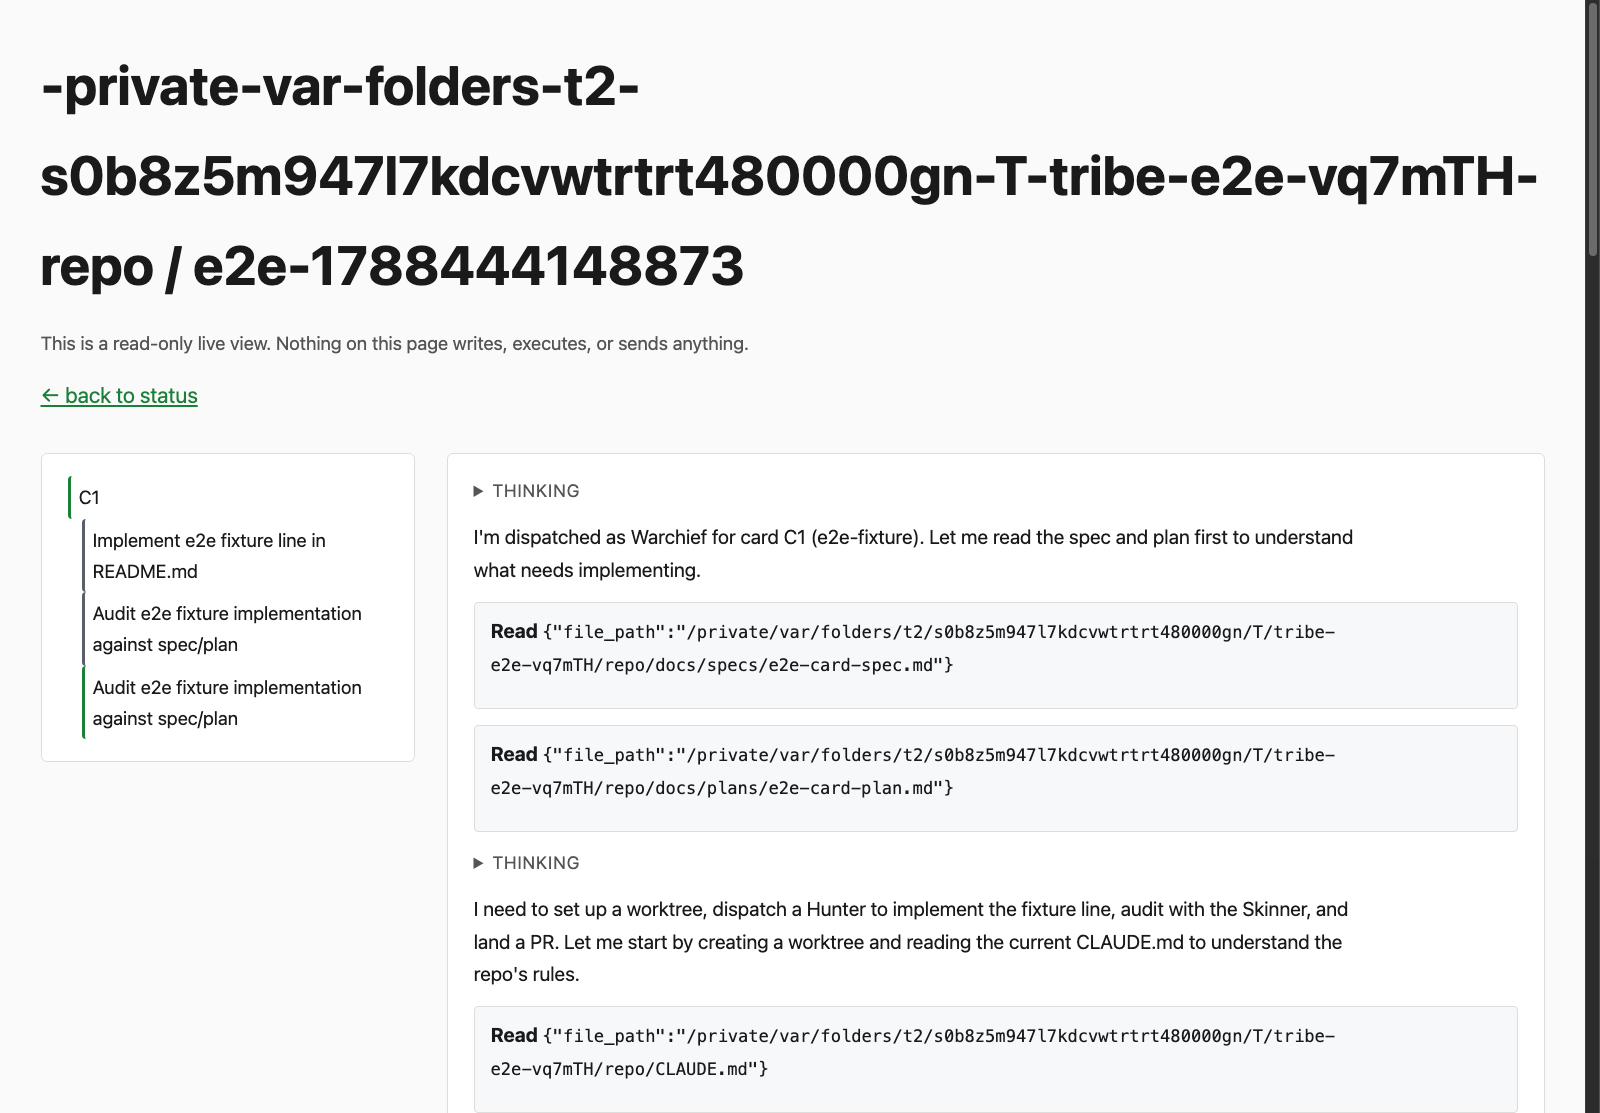
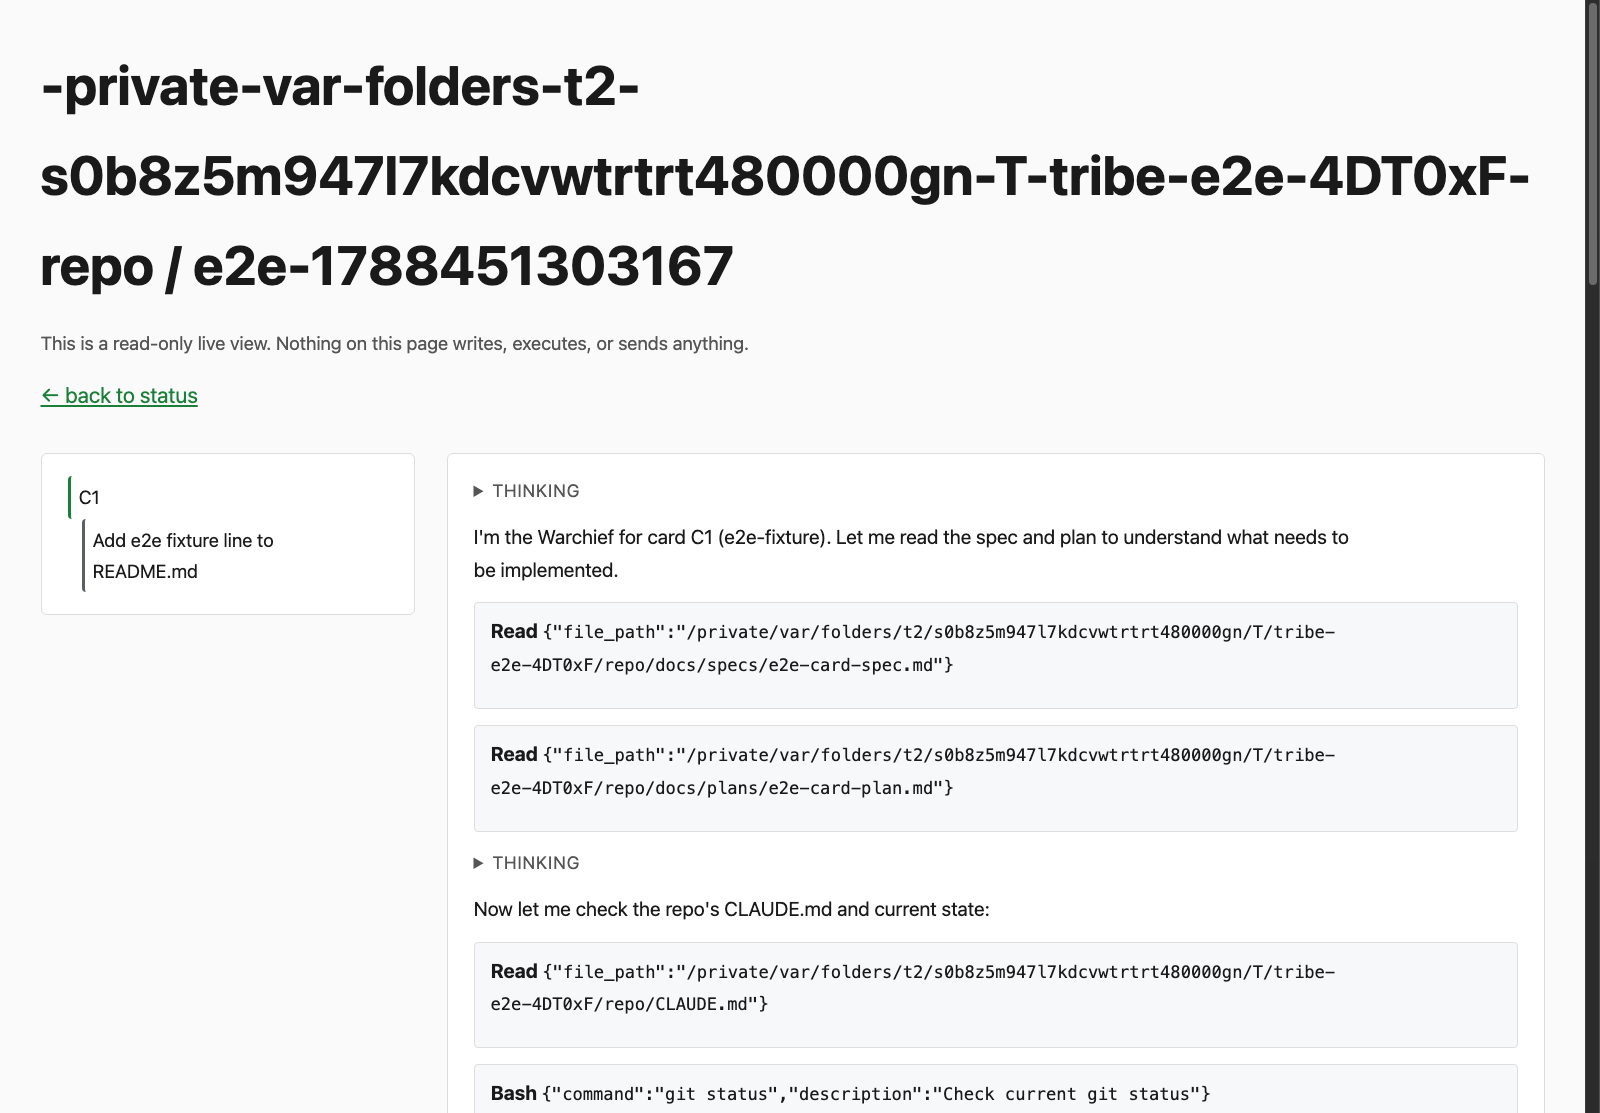
docs(evidence): regenerate the live-viewer evidence from the corrected harness
The F51 fix changes how append latency is measured (one sample per event, from the event own timestamp, instead of one mtime read per batched frame), so the previously committed latency.json measured something the PR no longer claims. Re-ran the real Haiku end-to-end against the corrected harness: worst 1414 ms of 2000 ms budget, all five samples timestamp-derived. commands.md is regenerated too, with the F54 quoting fix visible in every logged URL.

Tribe-Card: campaign-live-viewer
Tribe-Milestone: EVIDENCE-REGENERATED

diff --git a/docs/superpowers/evidence/2026-09-02-campaign-live-viewer/commands.md b/docs/superpowers/evidence/2026-09-02-campaign-live-viewer/commands.md
@@ -7,58 +7,59 @@ hand-authored).
 ## Fixed identifiers for this run
 
 - Throwaway target repo (deleted by `stop()` after this run — the path existed at run
-  time): `/var/folders/t2/s0b8z5m947l7kdcvwtrtrt480000gn/T/tribe-e2e-vq7mTH/repo`
-- Campaign home (kept — the Warchief re-inspects it): `/Users/hip/.tribe/-private-var-folders-t2-s0b8z5m947l7kdcvwtrtrt480000gn-T-tribe-e2e-vq7mTH-repo/campaigns/e2e-1788444148873`
-- Repo key (from `tribe-home.sh`): `-private-var-folders-t2-s0b8z5m947l7kdcvwtrtrt480000gn-T-tribe-e2e-vq7mTH-repo`
-- Campaign slug: `e2e-1788444148873`
+  time): `/var/folders/t2/s0b8z5m947l7kdcvwtrtrt480000gn/T/tribe-e2e-4DT0xF/repo`
+- Campaign home (kept — the Warchief re-inspects it): `/Users/hip/.tribe/-private-var-folders-t2-s0b8z5m947l7kdcvwtrtrt480000gn-T-tribe-e2e-4DT0xF-repo/campaigns/e2e-1788451303167`
+- Repo key (from `tribe-home.sh`): `-private-var-folders-t2-s0b8z5m947l7kdcvwtrtrt480000gn-T-tribe-e2e-4DT0xF-repo`
+- Campaign slug: `e2e-1788451303167`
 - Card id: `C1`
 - Viewer port: `4399` (never the default 4321)
 
 ## Runner's printed viewer URL line (G3 evidence)
 
 ```
-campaign viewer: http://127.0.0.1:4399/live?repo=-private-var-folders-t2-s0b8z5m947l7kdcvwtrtrt480000gn-T-tribe-e2e-vq7mTH-repo&slug=e2e-1788444148873 (read-only)
+campaign viewer: http://127.0.0.1:4399/live?repo=-private-var-folders-t2-s0b8z5m947l7kdcvwtrtrt480000gn-T-tribe-e2e-4DT0xF-repo&slug=e2e-1788451303167 (read-only)
 ```
 
 ## Commands
 
 ```sh
-$ git init -q  (cwd: /var/folders/t2/s0b8z5m947l7kdcvwtrtrt480000gn/T/tribe-e2e-vq7mTH/repo)
-$ git -c user.email=tribe-e2e@example.com -c "user.name=Tribe E2E Fixture" commit --allow-empty -q -m "initial commit"  (cwd: /var/folders/t2/s0b8z5m947l7kdcvwtrtrt480000gn/T/tribe-e2e-vq7mTH/repo)
-$ git add -A  (cwd: /var/folders/t2/s0b8z5m947l7kdcvwtrtrt480000gn/T/tribe-e2e-vq7mTH/repo)
-$ git -c user.email=tribe-e2e@example.com -c "user.name=Tribe E2E Fixture" commit -q -m "seed fixture card"  (cwd: /var/folders/t2/s0b8z5m947l7kdcvwtrtrt480000gn/T/tribe-e2e-vq7mTH/repo)
-$ git remote -v  (cwd: /var/folders/t2/s0b8z5m947l7kdcvwtrtrt480000gn/T/tribe-e2e-vq7mTH/repo)
-$ bash /Users/hip/repo/todd-skills-wt/campaign-live-viewer/plugins/tribe/scripts/tribe-home.sh /var/folders/t2/s0b8z5m947l7kdcvwtrtrt480000gn/T/tribe-e2e-vq7mTH/repo  (cwd: /var/folders/t2/s0b8z5m947l7kdcvwtrtrt480000gn/T/tribe-e2e-vq7mTH/repo)
-$ bun /Users/hip/repo/todd-skills-wt/campaign-live-viewer/plugins/tribe/scripts/runner/run.ts --repo /var/folders/t2/s0b8z5m947l7kdcvwtrtrt480000gn/T/tribe-e2e-vq7mTH/repo --model claude-haiku-4-5-20251001 --home /Users/hip/.tribe/-private-var-folders-t2-s0b8z5m947l7kdcvwtrtrt480000gn-T-tribe-e2e-vq7mTH-repo/campaigns/e2e-1788444148873 --dry-run
-$ bun /Users/hip/repo/todd-skills-wt/campaign-live-viewer/plugins/tribe/scripts/runner/run.ts --repo /var/folders/t2/s0b8z5m947l7kdcvwtrtrt480000gn/T/tribe-e2e-vq7mTH/repo --model claude-haiku-4-5-20251001 --home /Users/hip/.tribe/-private-var-folders-t2-s0b8z5m947l7kdcvwtrtrt480000gn-T-tribe-e2e-vq7mTH-repo/campaigns/e2e-1788444148873 --session-timeout 6m --viewer-port 4399  (detached, cwd: /var/folders/t2/s0b8z5m947l7kdcvwtrtrt480000gn/T/tribe-e2e-vq7mTH/repo)
-$ curl -N http://127.0.0.1:4399/events?repo=-private-var-folders-t2-s0b8z5m947l7kdcvwtrtrt480000gn-T-tribe-e2e-vq7mTH-repo&slug=e2e-1788444148873&process=card:C1  (SSE, watched via fetch()/ReadableStream, not EventSource; reconnects transparently on an idle-timeout drop — see the doc comment above measureAppendLatencies in harness.ts)
-$ "/Applications/Google Chrome.app/Contents/MacOS/Google Chrome" --headless=new --disable-gpu --screenshot=/Users/hip/repo/todd-skills-wt/campaign-live-viewer/docs/superpowers/evidence/2026-09-02-campaign-live-viewer/after-live-parent.png --window-size=1600,1200 --virtual-time-budget=8000 http://127.0.0.1:4399/live?repo=-private-var-folders-t2-s0b8z5m947l7kdcvwtrtrt480000gn-T-tribe-e2e-vq7mTH-repo&slug=e2e-1788444148873&process=card:C1
-$ "/Applications/Google Chrome.app/Contents/MacOS/Google Chrome" --headless=new --disable-gpu --screenshot=/Users/hip/repo/todd-skills-wt/campaign-live-viewer/docs/superpowers/evidence/2026-09-02-campaign-live-viewer/after-live-parent.png --window-size=1600,1200 --virtual-time-budget=8000 --user-data-dir=/var/folders/t2/s0b8z5m947l7kdcvwtrtrt480000gn/T/tribe-e2e-chrome-pH9CVv --no-sandbox http://127.0.0.1:4399/live?repo=-private-var-folders-t2-s0b8z5m947l7kdcvwtrtrt480000gn-T-tribe-e2e-vq7mTH-repo&slug=e2e-1788444148873&process=card:C1
-$ "/Applications/Google Chrome.app/Contents/MacOS/Google Chrome" --headless=new --disable-gpu --user-data-dir=/var/folders/t2/s0b8z5m947l7kdcvwtrtrt480000gn/T/tribe-e2e-chrome-cdp-I9nfhm --no-sandbox --remote-debugging-port=9422 --remote-allow-origins=* --window-size=1600,1200  (CDP-driven: Page.navigate via /json/new, then Page.captureScreenshot, for http://127.0.0.1:4399/live?repo=-private-var-folders-t2-s0b8z5m947l7kdcvwtrtrt480000gn-T-tribe-e2e-vq7mTH-repo&slug=e2e-1788444148873&process=card:C1)
-$ "/Applications/Google Chrome.app/Contents/MacOS/Google Chrome" --headless=new --disable-gpu --screenshot=/Users/hip/repo/todd-skills-wt/campaign-live-viewer/docs/superpowers/evidence/2026-09-02-campaign-live-viewer/after-live-subagent.png --window-size=1600,1200 --virtual-time-budget=8000 http://127.0.0.1:4399/live?repo=-private-var-folders-t2-s0b8z5m947l7kdcvwtrtrt480000gn-T-tribe-e2e-vq7mTH-repo&slug=e2e-1788444148873&process=agent:C1:a06427f44bbceb78e
-$ "/Applications/Google Chrome.app/Contents/MacOS/Google Chrome" --headless=new --disable-gpu --screenshot=/Users/hip/repo/todd-skills-wt/campaign-live-viewer/docs/superpowers/evidence/2026-09-02-campaign-live-viewer/after-live-subagent.png --window-size=1600,1200 --virtual-time-budget=8000 --user-data-dir=/var/folders/t2/s0b8z5m947l7kdcvwtrtrt480000gn/T/tribe-e2e-chrome-zuYZRO --no-sandbox http://127.0.0.1:4399/live?repo=-private-var-folders-t2-s0b8z5m947l7kdcvwtrtrt480000gn-T-tribe-e2e-vq7mTH-repo&slug=e2e-1788444148873&process=agent:C1:a06427f44bbceb78e
-$ "/Applications/Google Chrome.app/Contents/MacOS/Google Chrome" --headless=new --disable-gpu --user-data-dir=/var/folders/t2/s0b8z5m947l7kdcvwtrtrt480000gn/T/tribe-e2e-chrome-cdp-iFVIKB --no-sandbox --remote-debugging-port=9422 --remote-allow-origins=* --window-size=1600,1200  (CDP-driven: Page.navigate via /json/new, then Page.captureScreenshot, for http://127.0.0.1:4399/live?repo=-private-var-folders-t2-s0b8z5m947l7kdcvwtrtrt480000gn-T-tribe-e2e-vq7mTH-repo&slug=e2e-1788444148873&process=agent:C1:a06427f44bbceb78e)
+$ git init -q  (cwd: /var/folders/t2/s0b8z5m947l7kdcvwtrtrt480000gn/T/tribe-e2e-4DT0xF/repo)
+$ git -c user.email=tribe-e2e@example.com -c "user.name=Tribe E2E Fixture" commit --allow-empty -q -m "initial commit"  (cwd: /var/folders/t2/s0b8z5m947l7kdcvwtrtrt480000gn/T/tribe-e2e-4DT0xF/repo)
+$ git add -A  (cwd: /var/folders/t2/s0b8z5m947l7kdcvwtrtrt480000gn/T/tribe-e2e-4DT0xF/repo)
+$ git -c user.email=tribe-e2e@example.com -c "user.name=Tribe E2E Fixture" commit -q -m "seed fixture card"  (cwd: /var/folders/t2/s0b8z5m947l7kdcvwtrtrt480000gn/T/tribe-e2e-4DT0xF/repo)
+$ git remote -v  (cwd: /var/folders/t2/s0b8z5m947l7kdcvwtrtrt480000gn/T/tribe-e2e-4DT0xF/repo)
+$ bash /Users/hip/repo/todd-skills-wt/campaign-live-viewer/plugins/tribe/scripts/tribe-home.sh /var/folders/t2/s0b8z5m947l7kdcvwtrtrt480000gn/T/tribe-e2e-4DT0xF/repo  (cwd: /var/folders/t2/s0b8z5m947l7kdcvwtrtrt480000gn/T/tribe-e2e-4DT0xF/repo)
+$ bun /Users/hip/repo/todd-skills-wt/campaign-live-viewer/plugins/tribe/scripts/runner/run.ts --repo /var/folders/t2/s0b8z5m947l7kdcvwtrtrt480000gn/T/tribe-e2e-4DT0xF/repo --model claude-haiku-4-5-20251001 --home /Users/hip/.tribe/-private-var-folders-t2-s0b8z5m947l7kdcvwtrtrt480000gn-T-tribe-e2e-4DT0xF-repo/campaigns/e2e-1788451303167 --dry-run
+$ bun /Users/hip/repo/todd-skills-wt/campaign-live-viewer/plugins/tribe/scripts/runner/run.ts --repo /var/folders/t2/s0b8z5m947l7kdcvwtrtrt480000gn/T/tribe-e2e-4DT0xF/repo --model claude-haiku-4-5-20251001 --home /Users/hip/.tribe/-private-var-folders-t2-s0b8z5m947l7kdcvwtrtrt480000gn-T-tribe-e2e-4DT0xF-repo/campaigns/e2e-1788451303167 --session-timeout 6m --viewer-port 4399  (detached, cwd: /var/folders/t2/s0b8z5m947l7kdcvwtrtrt480000gn/T/tribe-e2e-4DT0xF/repo)
+$ curl -N "http://127.0.0.1:4399/events?repo=-private-var-folders-t2-s0b8z5m947l7kdcvwtrtrt480000gn-T-tribe-e2e-4DT0xF-repo&slug=e2e-1788451303167&process=card:C1"  (SSE, watched via fetch()/ReadableStream, not EventSource; reconnects transparently on any transport hiccup — see the doc comment above measureAppendLatencies in harness.ts)
+$ "/Applications/Google Chrome.app/Contents/MacOS/Google Chrome" --headless=new --disable-gpu --screenshot=/Users/hip/repo/todd-skills-wt/campaign-live-viewer/docs/superpowers/evidence/2026-09-02-campaign-live-viewer/after-live-parent.png --window-size=1600,1200 --virtual-time-budget=8000 "http://127.0.0.1:4399/live?repo=-private-var-folders-t2-s0b8z5m947l7kdcvwtrtrt480000gn-T-tribe-e2e-4DT0xF-repo&slug=e2e-1788451303167&process=card:C1"
+$ "/Applications/Google Chrome.app/Contents/MacOS/Google Chrome" --headless=new --disable-gpu --screenshot=/Users/hip/repo/todd-skills-wt/campaign-live-viewer/docs/superpowers/evidence/2026-09-02-campaign-live-viewer/after-live-parent.png --window-size=1600,1200 --virtual-time-budget=8000 --user-data-dir=/var/folders/t2/s0b8z5m947l7kdcvwtrtrt480000gn/T/tribe-e2e-chrome-RJ7ErE --no-sandbox "http://127.0.0.1:4399/live?repo=-private-var-folders-t2-s0b8z5m947l7kdcvwtrtrt480000gn-T-tribe-e2e-4DT0xF-repo&slug=e2e-1788451303167&process=card:C1"
+$ "/Applications/Google Chrome.app/Contents/MacOS/Google Chrome" --headless=new --disable-gpu --user-data-dir=/var/folders/t2/s0b8z5m947l7kdcvwtrtrt480000gn/T/tribe-e2e-chrome-cdp-io4VA6 --no-sandbox --remote-debugging-port=9422 "--remote-allow-origins=*" --window-size=1600,1200  (CDP-driven: Page.navigate via /json/new, then Page.captureScreenshot, for http://127.0.0.1:4399/live?repo=-private-var-folders-t2-s0b8z5m947l7kdcvwtrtrt480000gn-T-tribe-e2e-4DT0xF-repo&slug=e2e-1788451303167&process=card:C1)
+$ "/Applications/Google Chrome.app/Contents/MacOS/Google Chrome" --headless=new --disable-gpu --screenshot=/Users/hip/repo/todd-skills-wt/campaign-live-viewer/docs/superpowers/evidence/2026-09-02-campaign-live-viewer/after-live-subagent.png --window-size=1600,1200 --virtual-time-budget=8000 "http://127.0.0.1:4399/live?repo=-private-var-folders-t2-s0b8z5m947l7kdcvwtrtrt480000gn-T-tribe-e2e-4DT0xF-repo&slug=e2e-1788451303167&process=agent:C1:a130e0d5d862ee2c1"
+$ "/Applications/Google Chrome.app/Contents/MacOS/Google Chrome" --headless=new --disable-gpu --screenshot=/Users/hip/repo/todd-skills-wt/campaign-live-viewer/docs/superpowers/evidence/2026-09-02-campaign-live-viewer/after-live-subagent.png --window-size=1600,1200 --virtual-time-budget=8000 --user-data-dir=/var/folders/t2/s0b8z5m947l7kdcvwtrtrt480000gn/T/tribe-e2e-chrome-1YuoeE --no-sandbox "http://127.0.0.1:4399/live?repo=-private-var-folders-t2-s0b8z5m947l7kdcvwtrtrt480000gn-T-tribe-e2e-4DT0xF-repo&slug=e2e-1788451303167&process=agent:C1:a130e0d5d862ee2c1"
+$ "/Applications/Google Chrome.app/Contents/MacOS/Google Chrome" --headless=new --disable-gpu --user-data-dir=/var/folders/t2/s0b8z5m947l7kdcvwtrtrt480000gn/T/tribe-e2e-chrome-cdp-Dg64sr --no-sandbox --remote-debugging-port=9422 "--remote-allow-origins=*" --window-size=1600,1200  (CDP-driven: Page.navigate via /json/new, then Page.captureScreenshot, for http://127.0.0.1:4399/live?repo=-private-var-folders-t2-s0b8z5m947l7kdcvwtrtrt480000gn-T-tribe-e2e-4DT0xF-repo&slug=e2e-1788451303167&process=agent:C1:a130e0d5d862ee2c1)
 ```
 
 ## Before capture (the Warchief's, not this harness')
 
-`before-status-page.png` is the OLD status page — the surface this card replaces — rendered
-against the **same** campaign home this run produced, so before and after show the same data.
-Captured from a detached worktree at `master` `9b1b502` (the viewer package is byte-identical
-between the card's base `5e8c095` and `9b1b502`: `git diff --stat 5e8c095 9b1b502 --
-plugins/tribe/scripts/viewer/` is empty). The campaign home was copied into an isolated
-tribe-root so the page renders only this campaign and no unrelated local state.
+`before-status-page.png` is the OLD status page - the surface this card replaces - rendered
+against a campaign home produced by this same e2e harness, so before and after show the same
+kind of data. Captured from a detached worktree at `master` `9b1b502`; the viewer package is
+byte-identical between the card's base `5e8c095` and `9b1b502`
+(`git diff --stat 5e8c095 9b1b502 -- plugins/tribe/scripts/viewer/` is empty), so this is the
+pre-card surface. The campaign home was copied into an isolated tribe-root so the page renders
+only that campaign and no unrelated local state.
 
 ```sh
-$ cp -R ~/.tribe/-private-var-folders-t2-s0b8z5m947l7kdcvwtrtrt480000gn-T-tribe-e2e-vq7mTH-repo <scratch>/before-tribe-root/
+$ cp -R ~/.tribe/<e2e-repo-key> <scratch>/before-tribe-root/
 $ cd <worktree@9b1b502>/plugins/tribe/scripts/viewer && bun serve.ts --tribe-root <scratch>/before-tribe-root --port 4398
 tribe viewer: http://127.0.0.1:4398 (root: <scratch>/before-tribe-root) - read-only, refresh to update
 $ "/Applications/Google Chrome.app/Contents/MacOS/Google Chrome" --headless=new --disable-gpu --no-sandbox \
     --user-data-dir=<scratch>/chrome-profile \
     --screenshot=docs/superpowers/evidence/2026-09-02-campaign-live-viewer/before-status-page.png \
-    --window-size=1600,900 --virtual-time-budget=6000 http://127.0.0.1:4398/
+    --window-size=1600,900 --virtual-time-budget=6000 "http://127.0.0.1:4398/"
 ```
 
-Result: `before-status-page.png`, PNG 1600x900. It shows one campaign card row and a
-`Session tail - C1-28e3046e-....log (159295 bytes)` block: 40 lines of raw runner JSONL in a
+Result: `before-status-page.png`, PNG 1600x900. One campaign row plus a
+`Session tail - C1-<sessionId>.log (159295 bytes)` block: 40 lines of raw runner JSONL in a
 `<pre>`. No subagents, no rendered messages, no live update - the exact gap this card closes.
